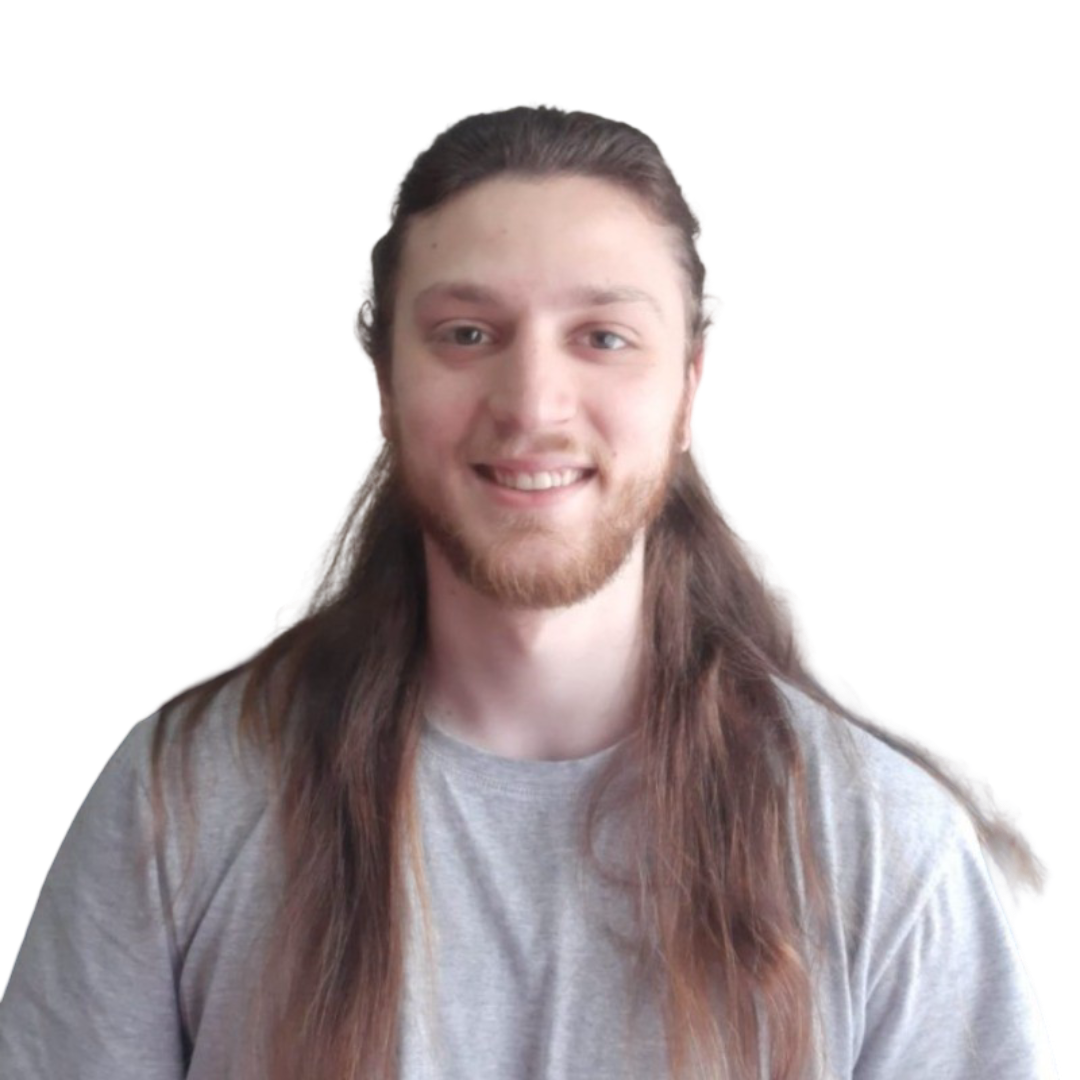
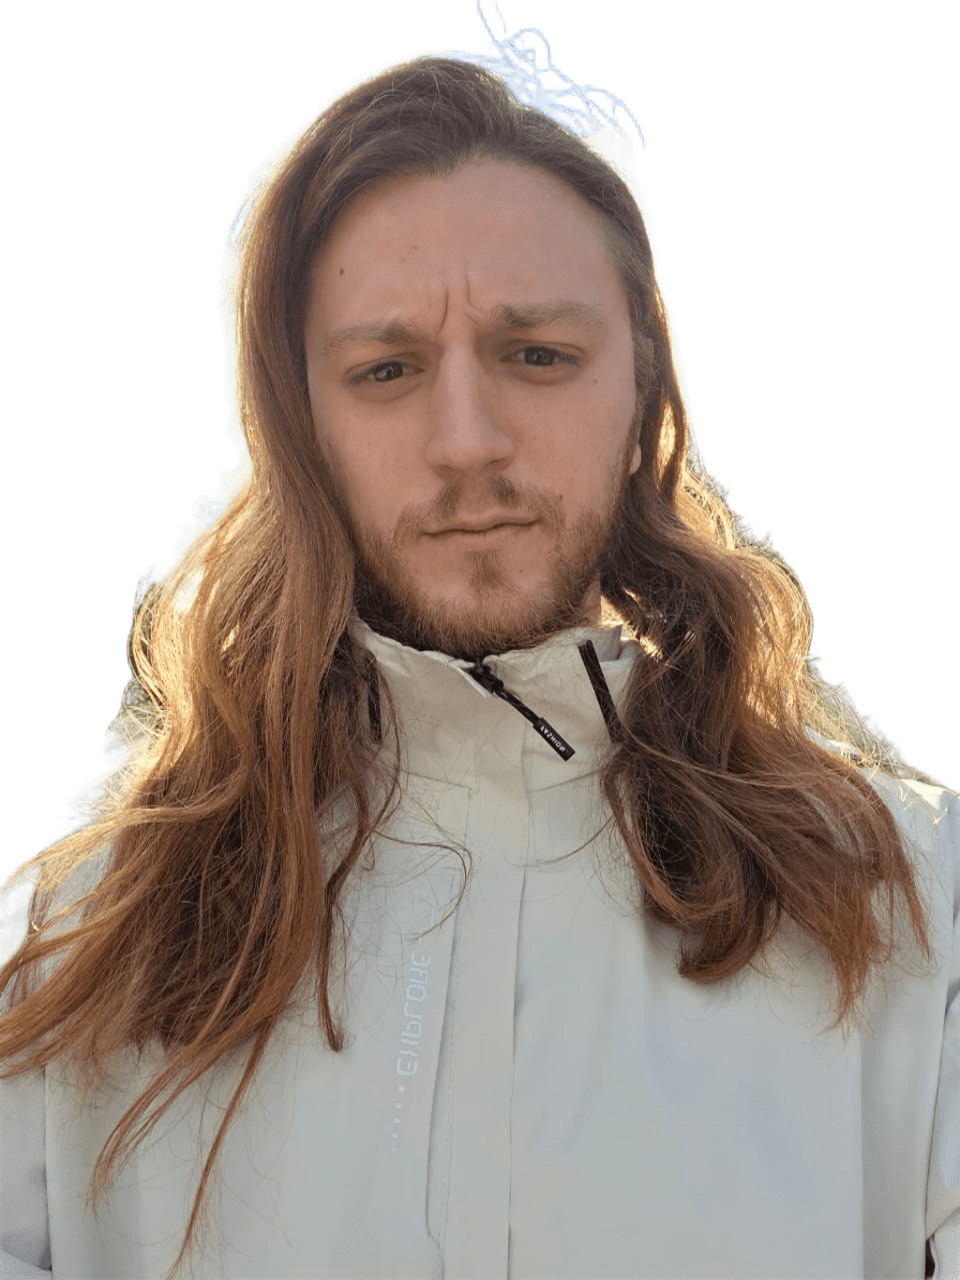
s

diff --git a/src/data/teamData.js b/src/data/teamData.js
@@ -24,8 +24,14 @@ export const people = [
     surname: "Toto",
     description: "Fullstack Developer",
     role: "Frontend",
-    image: "team/tomas-ia-nobg.png",
-    fullImage: "team/tomas-ia.jpeg",
+    image: "team/ROMA.png",
+    fullImage: "team/tomas.jpeg",
+    imageStyle: {
+      objectPosition: "center 15%"
+    },
+    avatarStyle: {
+      objectFit: "contain"
+    },
     skills: ["Node.js", "Docker", "MySQL", "React"],
     social: {
       github: "https://github.com/toto-rcv",
@@ -96,8 +102,14 @@ export const getTeamData = (t) => [
     surname: "Toto",
     description: t('team.members.tomas.description', "Fullstack Developer"),
     role: "Fullstack",
-    image: "team/tomas-ia-nobg.png",
-    fullImage: "team/tomas-ia.jpeg",
+    image: "team/ROMA.png",
+    fullImage: "team/tomas.jpeg",
+    imageStyle: {
+      objectPosition: "center 15%"
+    },
+    avatarStyle: {
+      objectFit: "contain"
+    },
     skills: ["Node.js", "Docker", "MySQL", "React"],
     social: {
       github: "https://github.com/toto-rcv",

diff --git a/src/components/team/mobile/PersonSelector.js b/src/components/team/mobile/PersonSelector.js
@@ -15,6 +15,7 @@ const PersonSelector = ({ people, currentIndex, onSelect }) => {
               src={person.image}
               alt={person.name}
               $isActive={index === currentIndex}
+              style={person.avatarStyle || {}}
             />
             <PersonName>{person.surname}</PersonName>
           </PersonItem>
@@ -62,13 +63,15 @@ const PersonItem = styled.div`
 `;
 
 const PersonAvatar = styled.img`
-  width: 35px;
-  height: 35px;
-  border-radius: 50%;
+  width: 90px;
+  height: 120px;
+  border-radius: 12px;
   object-fit: cover;
+  object-position: center top;
+  flex-shrink: 0;
   border: 2px solid ${props => props.$isActive ? 'var(--secondary-color)' : 'transparent'};
   transition: all 0.3s ease;
-  
+
   ${PersonItem}:hover & {
     border-color: var(--secondary-color);
   }

diff --git a/src/components/team/mobile/ImageComplete.js b/src/components/team/mobile/ImageComplete.js
@@ -1,12 +1,12 @@
 import React from 'react';
 import styled from 'styled-components';
 
-const ImageComplete = ({ name, role, image, onClick, surname }) => {
-  
+const ImageComplete = ({ name, role, image, imageStyle, onClick, surname }) => {
+
   return (
     <ImageContainer onClick={onClick}>
       <ImageWrapper>
-        <PersonImage src={image} alt={name} />
+        <PersonImage src={image} alt={name} style={imageStyle} />
         <ImageOverlay>
           <PersonInfo>
             <PersonName>{surname || name}</PersonName>

diff --git a/src/components/team/PersonSelector.js b/src/components/team/PersonSelector.js
@@ -127,7 +127,7 @@ const PersonSelector = ({ people, currentIndex }) => {
             <RightCol>
               <ImageAndSocialContainer>
                 <ImageContainer>
-                  <ProfileImg src={person.fullImage || person.image} alt={person.name} />
+                  <ProfileImg src={person.fullImage || person.image} alt={person.name} style={person.imageStyle} />
                   <ImageOverlay />
                 </ImageContainer>
 

diff --git a/src/components/team/card3D.js b/src/components/team/card3D.js
@@ -209,7 +209,7 @@ const Cardimage = styled.img`
   border-radius: 15px;
   filter: brightness(0.93) contrast(1.05) saturate(1.1);
   width: 110px;
-  height: 110px;
+  height: 140px;
   object-fit: cover;
   transition: transform 0.3s ease;
   margin-right: 0.2rem;

diff --git a/src/components/team/TeamMobile.js b/src/components/team/TeamMobile.js
@@ -64,6 +64,7 @@ const Team = () => {
             name={teamData[currentIndex].name}
             role={teamData[currentIndex].role}
             image={teamData[currentIndex].fullImage || teamData[currentIndex].image}
+            imageStyle={teamData[currentIndex].imageStyle}
             surname={teamData[currentIndex].surname}
             onClick={() => handleSelect((currentIndex + 1) % totalPeople)}
           />